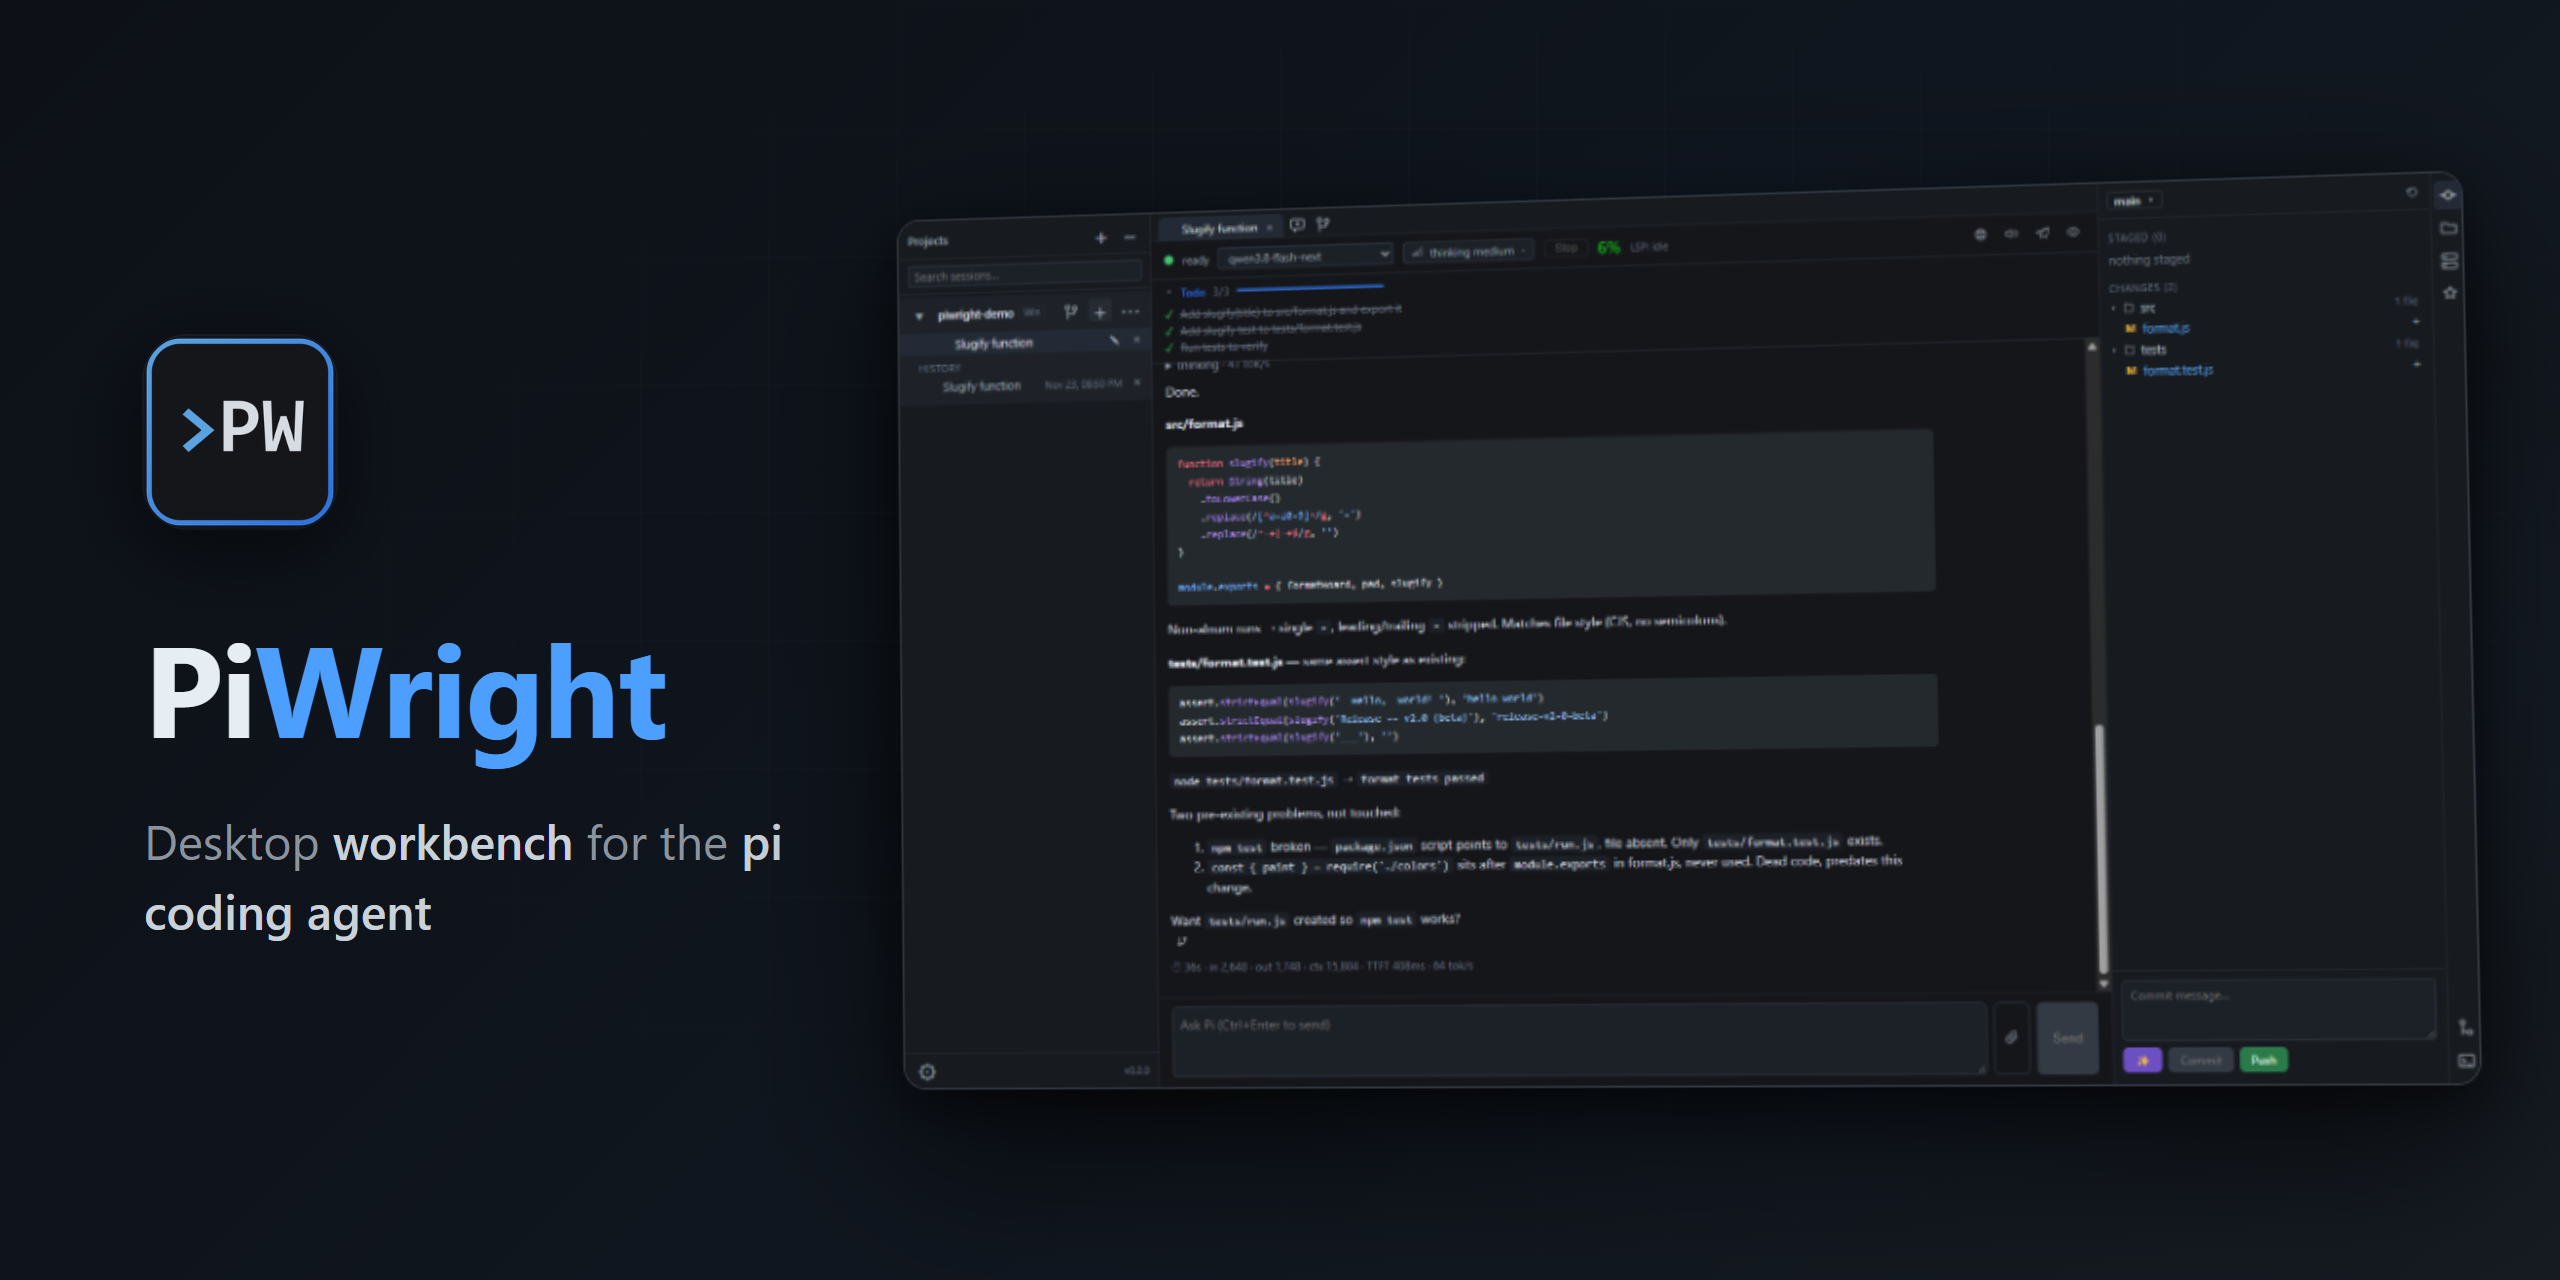
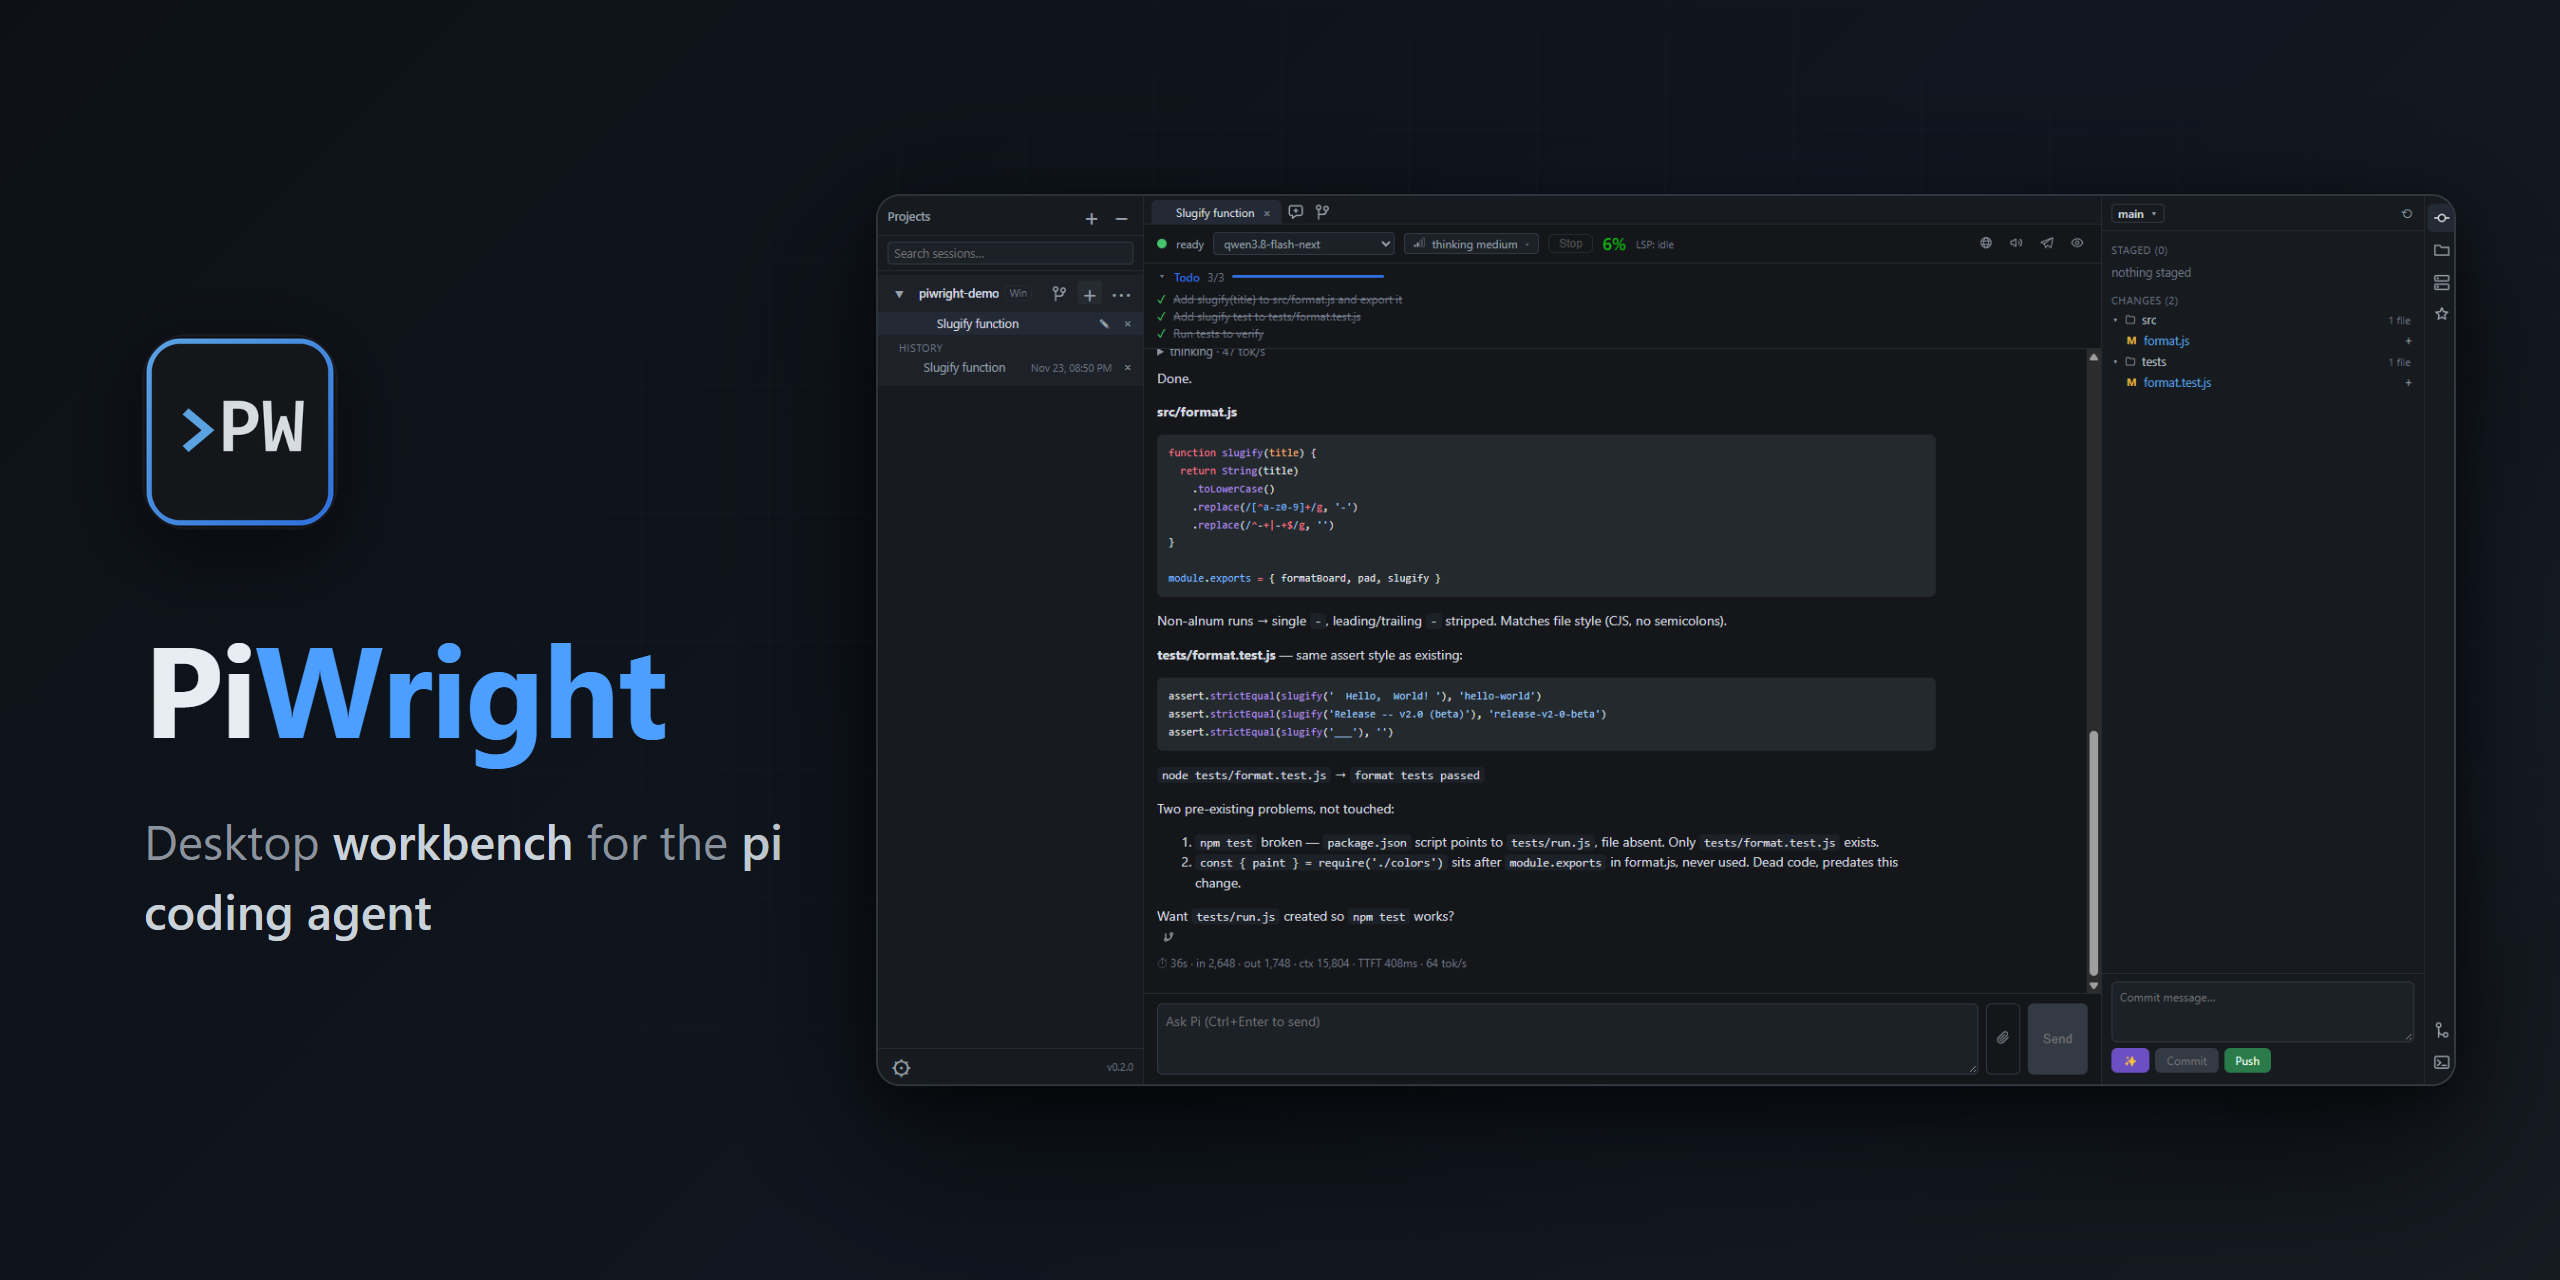
docs: drop 3D tilt from social preview screenshot (blurry rasterization)

diff --git a/scripts/social-preview.html b/scripts/social-preview.html
@@ -54,7 +54,7 @@
   .shot-wrap {
     position: absolute;
     right: 52px; top: 50%;
-    transform: translateY(-50%) perspective(1600px) rotateY(-6deg) rotateX(1.5deg) rotate(-1deg);
+    transform: translateY(-50%);
   }
   .shot {
     width: 790px;
